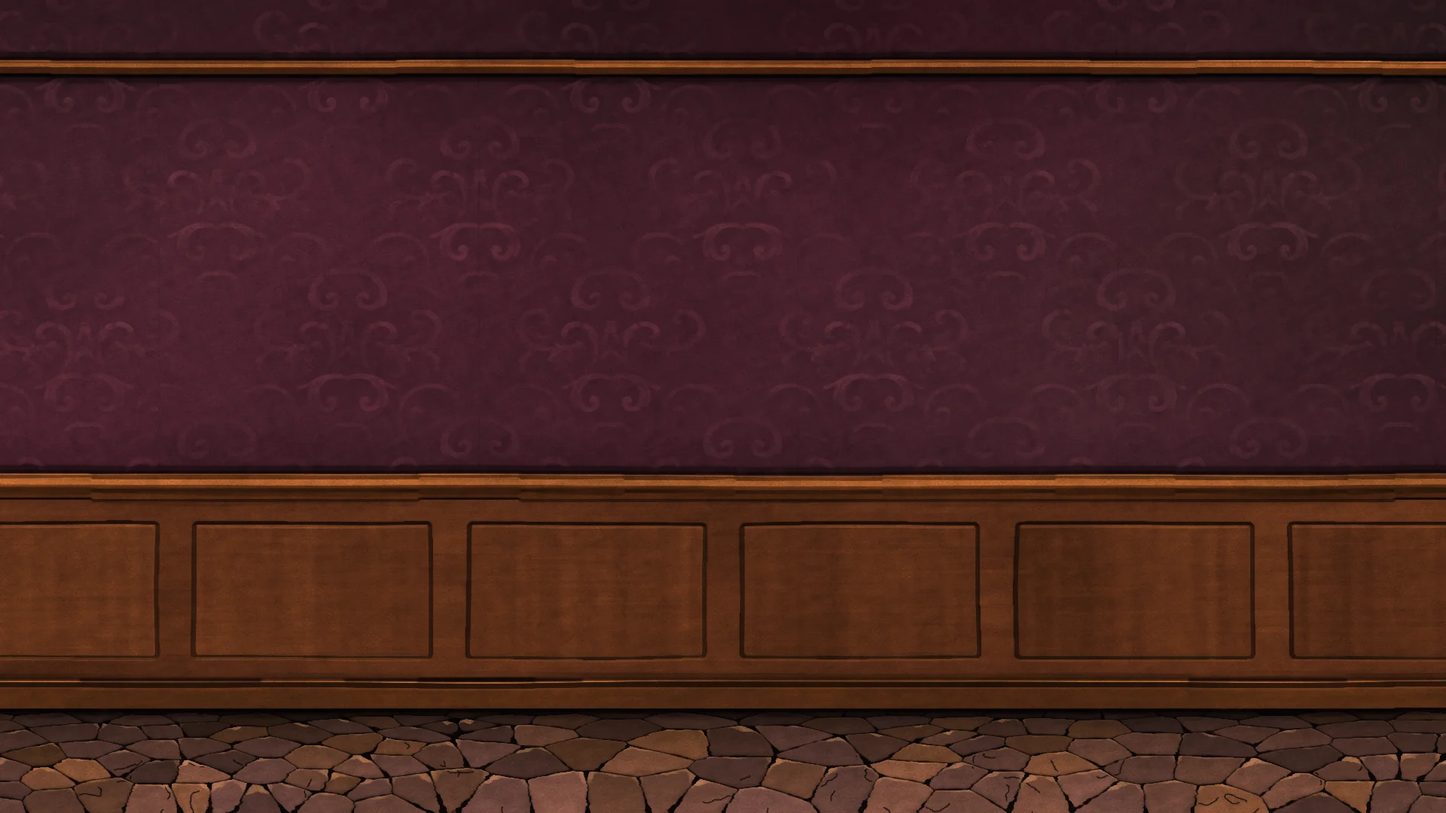
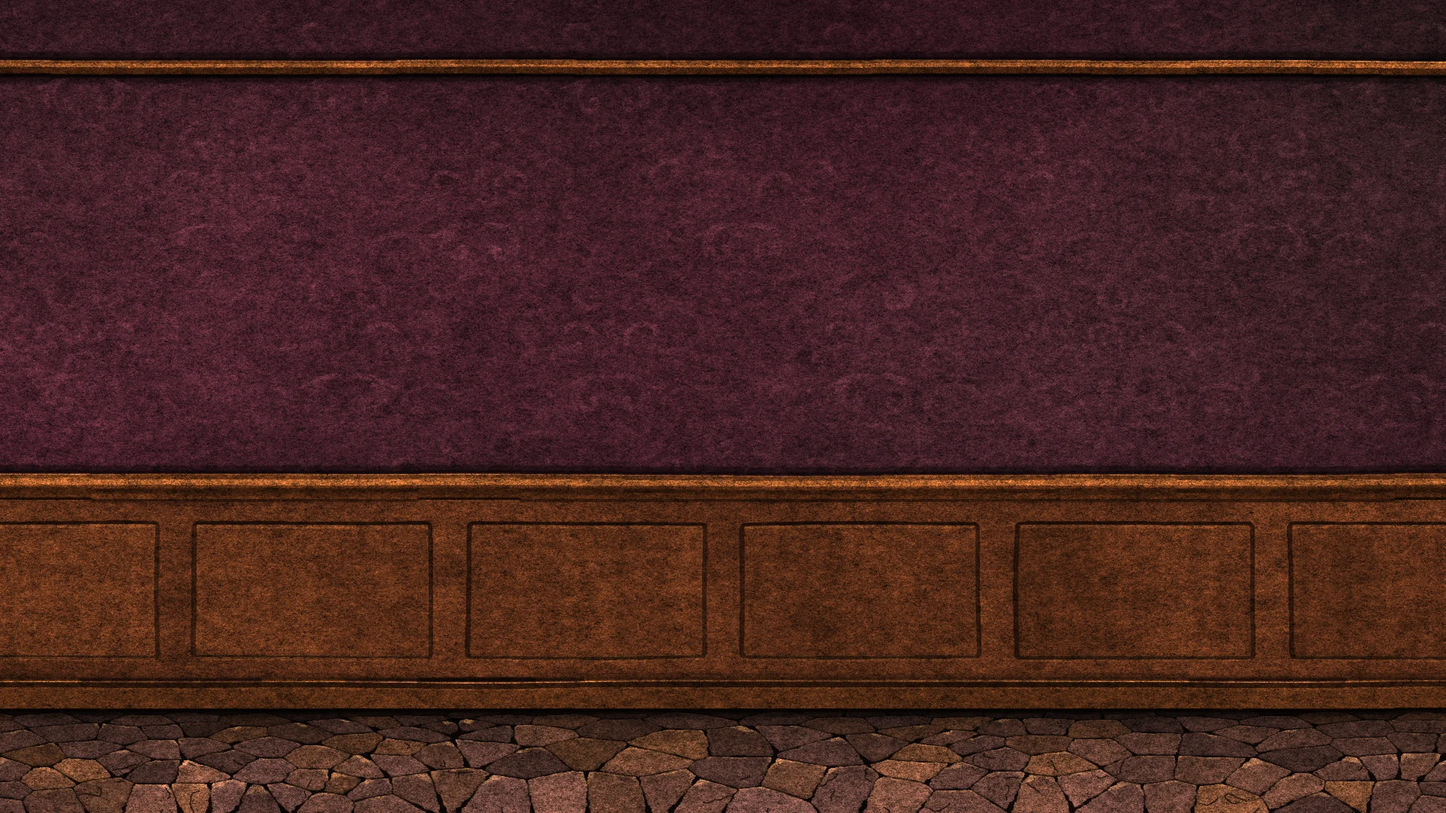
The room gets the tooth of the thing it is painted on
`57da26a` took the black floor out and the ground still read as a render. This is
the other half of that, and it is the same kind of measurement.

Measured on FLAT SURFACES ONLY -- the image resampled to one width, tiled, and
only tiles with no edge crossing them kept, so a panel edge or a letter cannot
inflate the number -- as high-frequency energy over the surface's own level:

    Josh's four samples   0.185   0.325   0.318   0.498
    our room textures     0.015   0.019   0.019
    our ground on screen  0.029   0.034   0.036

An order of magnitude, and it is the whole of "a render, not a painting". Broken
into octaves his incident is roughly FLAT from 0.8px to 12px; ours was weak
everywhere and weakest at the fine end, 0.009 against his 0.10-0.27 at 0.8px.
What the room already had -- the felt's grit, two brush directions, the dabs --
is all low-frequency and all under 7%: it moves the value in patches the size of
a brush and leaves the surface between them glassy.

So the surface gets the tooth of its ground: 1/f noise across every octave
(beta 1.1, the flat-per-octave exponent his spectrum shows), multiplied in so it
rides the light instead of laying a grey film over it, with the longest
wavelengths cut so it is a tooth and not a stain.

    room textures         0.015-0.019  ->  0.060-0.124
    the ground on screen  0.029-0.036  ->  0.088-0.091

AMPLITUDE IS SET BY EYE, AND THE EYE AND THE NUMBER DISAGREE. Reaching his 0.185
[…]

diff --git a/tools/prep_ui_paint.py b/tools/prep_ui_paint.py
@@ -48,6 +48,10 @@ UI = M.UI
 OUT = M.OUT
 PREVIEW = None
 
+# How hard the ground's tooth shows through the paint (see `room`). 0.13 is by
+# eye: 0.20 reaches the samples' own figure and reads as film grain.
+TOOTH = 0.13
+
 hexc, ramp, smooth, noise, normals, lambert, specular = (
     M.hexc, M.ramp, M.smooth, M.noise, M.normals, M.lambert, M.specular)
 
@@ -471,6 +475,36 @@ def room():
     # size of a brush, a little lighter or darker, never an even render
     dabs = ndimage.gaussian_filter(rng.normal(0, 1, (H // 6, W // 6)).astype(np.float32), 0.9)
     dabs = resize_f(dabs / (np.abs(dabs).max() + 1e-6), W, H)
+    # THE TOOTH OF THE THING IT IS PAINTED ON, and the room did not have one.
+    # Measured on flat surfaces only -- tiles with no edge crossing them, every
+    # image resampled to one width first, so a panel edge or a letter cannot
+    # inflate the number -- as high-frequency energy over the surface's own
+    # level:
+    #
+    #   Josh's four samples   0.185  0.325  0.318  0.498
+    #   this room             0.015  0.019  0.019
+    #
+    # An order of magnitude, and it is the whole of "a render, not a painting".
+    # Broken into octaves his incident is roughly FLAT from 0.8px to 12px, where
+    # ours was weak everywhere and weakest at the fine end (0.009 against 0.10 to
+    # 0.27 at 0.8px). What was already here -- the felt's grit, two brush
+    # directions, the dabs -- is all low-frequency and all under 7%: it moves the
+    # value in patches the size of a brush and leaves the surface between them
+    # glassy.
+    #
+    # So the surface gets the tooth of its ground, 1/f across every octave
+    # (beta 1.1 is the flat-per-octave exponent his spectrum shows), multiplied
+    # in so it rides the light instead of adding a grey film, with the largest
+    # wavelengths cut so it is a tooth and not a stain.
+    #
+    # AMPLITUDE IS SET BY EYE, NOT BY THE NUMBER, and they disagree. Reaching his
+    # 0.185 needs 0.20, and at 0.20 the wall reads as film grain and the damask
+    # under it disappears; 0.13 reads as plaster and paper. So this lands at
+    # about 0.12, six times what the room had and a third short of his lowest
+    # sample, and going further would score better and look worse.
+    tooth = M.periodic_noise(0, np.random.default_rng(5150), beta=1.1, lo_cut=4.0,
+                             shape=(H, W))
+    tooth = tooth / (np.abs(tooth).std() + 1e-9)
     # the wood's grain, drawn along the boards with a dry brush
     grain = aniso_noise(H, W, rng, 34, 0.9)
     woodzone = ((yy >= Y_PIC[0]) & (yy < Y_PIC[1])) | ((yy >= Y_DADO[0]) & (yy < Y_FLOOR))
@@ -484,6 +518,7 @@ def room():
         col = col * (1 - ink[..., None])
         col = col * (0.72 + 0.28 * tex[..., None]) ** 1.0
         col = col * (1 + (brush * 0.07 + brush2 * 0.045 + dabs * 0.06)[..., None])
+        col = col * (1 + tooth[..., None] * TOOTH)
         return np.clip(col, 0, 255)
 
     # in the dark: the room lost in a cold violet shadow, its top in soot.
